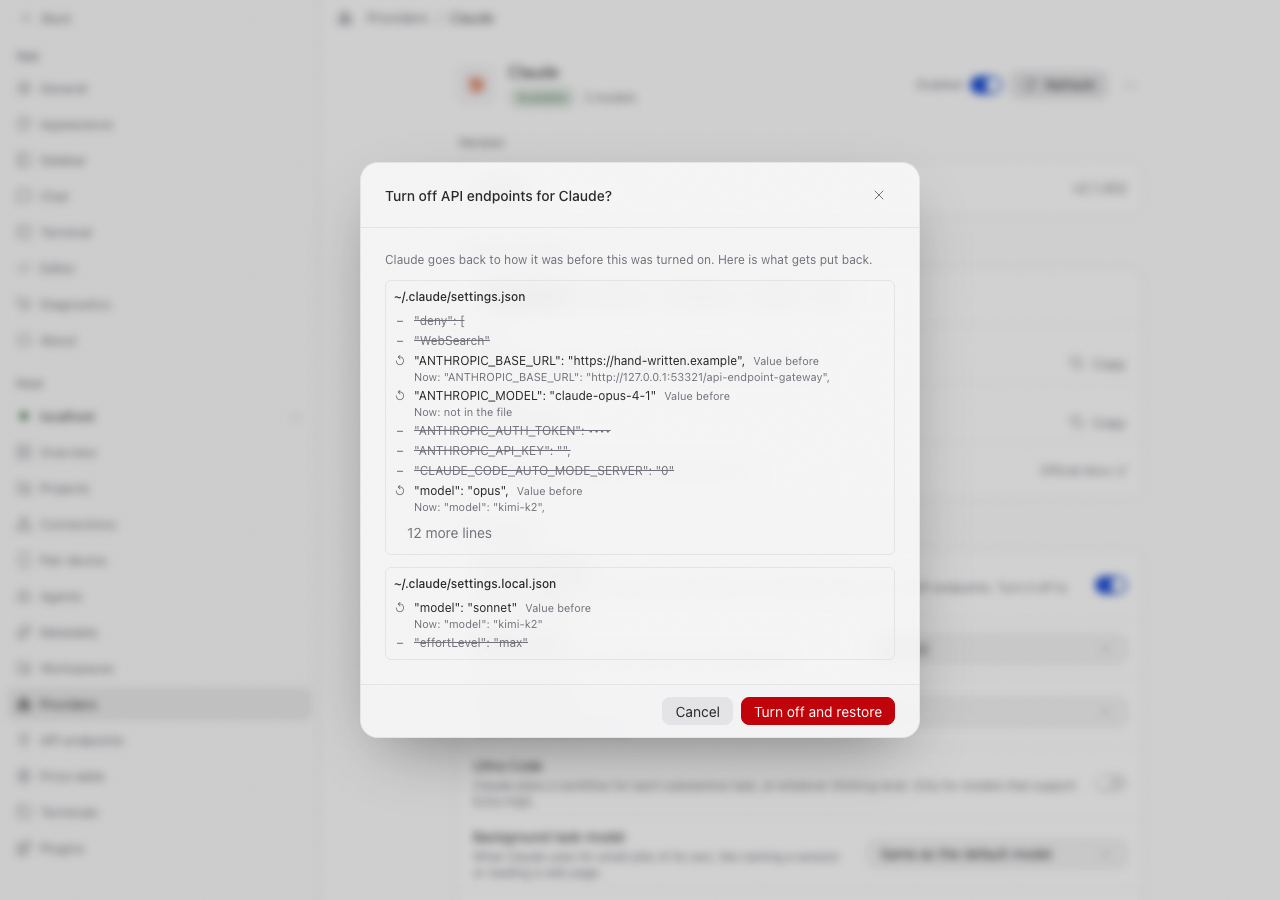
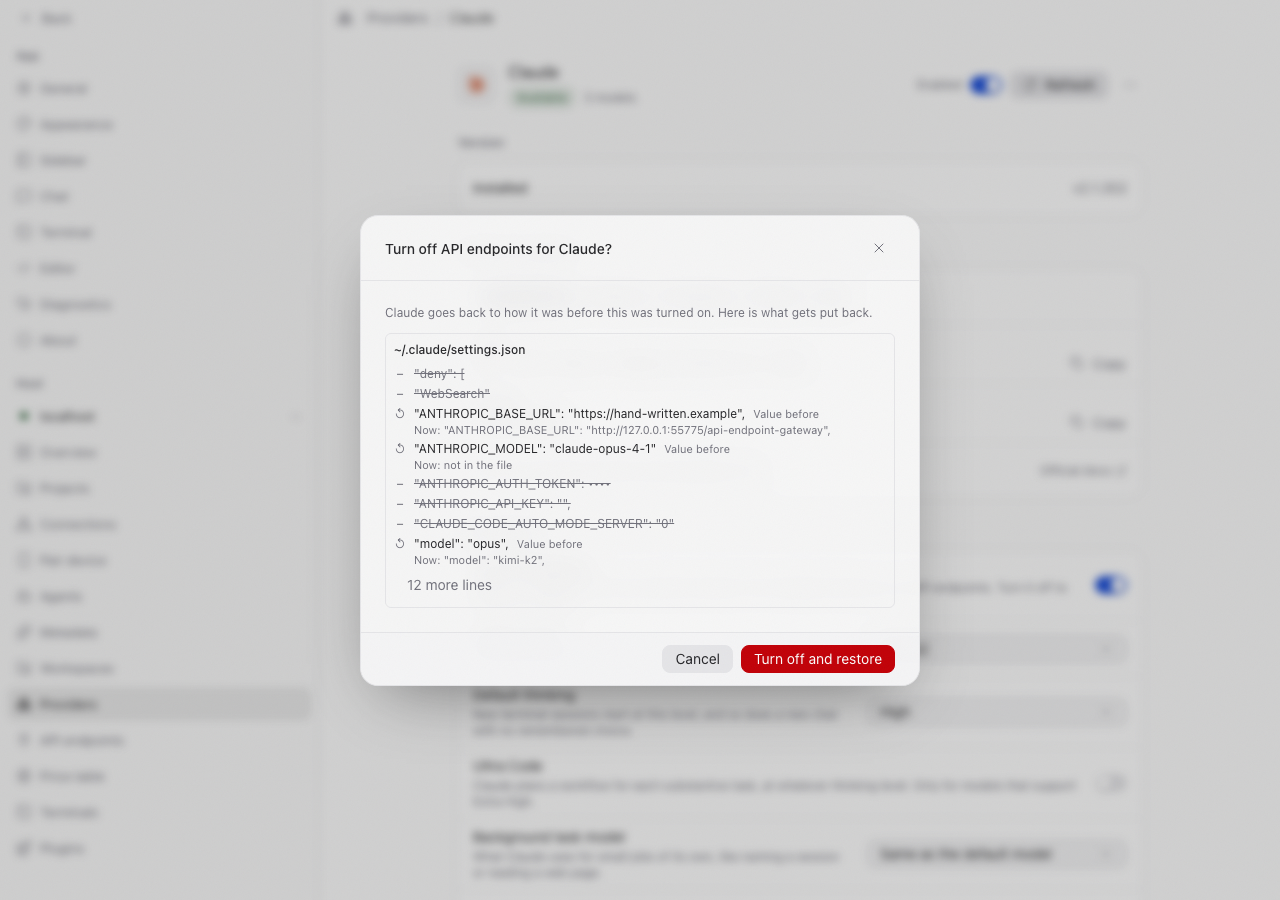
chore(task): 10-16-cli-wiring-web-search 工单 26 长列表截图只留真实的一个文件，记下每个提供方关掉只改一个文件

Changed region(s): [[0.2812, 0.1556, 0.7188, 0.7156], [0.2812, 0.7156, 0.7188, 0.84]]

diff --git a/.atw/tasks/10-16-cli-wiring-web-search/research/implementation-notes.md b/.atw/tasks/10-16-cli-wiring-web-search/research/implementation-notes.md
@@ -792,6 +792,7 @@ Osuna 照 magpie 的 ChatGPT 接法把它换成中转站地址（不换，Codex 
 - Codex 那句说明照 magpie 按 Agent 是不是 Codex 显示，读取中、算不出时也在；线上不另带标志。
 - 主机没声明 `apiEndpointCliWiring` 时不弹框，直接关（浏览器测试覆盖）。
 - 放回的一行（接入前有、现在没有的键）写「现在：文件里没有这一项」。
+- 每个提供方关掉只改一个文件（Claude Code 的 settings.json、Codex 的 config.toml），「按文件分组」实际只有一组。
 - e2e 的 `resetApiEndpoints` 另清后台小任务、Subagent、记忆模型，并在开关都关着时删掉接管记录（含 reconnect），免得上一个用例关掉前的默认模型被下一个用例按 again 挑回来（24 号用例之后 Codex 用例必挂的原因）。
 
 ### 测试
@@ -799,4 +800,4 @@ Osuna 照 magpie 的 ChatGPT 接法把它换成中转站地址（不换，Codex 
 - 纯逻辑 `switch-off-preview.test.ts`（server）：magpie 的大文件、配对、相同内容、括号、大块拿掉；遮密钥；新建、删除、不变、家目录外的路径。
 - daemon 端到端：Claude（改回、放回、拿掉逐行与关掉后的文件一致；Osuna 建的文件列为删除；开关关着时没有；读不懂时回 `config_unparsable`）与 Codex（两行改回、目录行拿掉，关掉后与 `keptConfig` 一致；读不懂）；都比对预览前后内容与 mtime。
 - app：`internal/switch-off-preview.test.ts`（折叠、认不出的种类改文字、算不出）；浏览器测试「Turning Use API endpoints off previews what it puts back」：扣住预览请求看「正在读取」、放开后整份逐行与「现在」行、取消不改文件、确认后关掉并改回；折叠「还有 4 行」展开；读不懂时文字说明加原因，确认被拒在框里、「保留当前设置」关掉且文件不动；Codex 读取中与列表时说明都在、窄窗口确认按钮在视口内；老主机直接关。提示区「切回官方」开同一个框，失败留在框里、重试后关掉。原来三处关开关的步骤补上确认。
-- 截图（无头 Chromium、临时 HOME、假数据；长列表图里第二个文件是截图时注入的假数据，用来看按文件分组）：`screenshots/26-switch-off-sheet_long-list_desktop-1280_{en,zh}.png`、`26-switch-off-sheet_codex_compact-390_{en,zh}.png`、`26-switch-off-sheet_unreadable_desktop-1280_{en,zh}.png`、`26-switch-off-sheet_unreadable-refused_desktop-1280_{en,zh}.png`。
+- 截图（无头 Chromium、临时 HOME、假数据）：`screenshots/26-switch-off-sheet_long-list_desktop-1280_{en,zh}.png`、`26-switch-off-sheet_codex_compact-390_{en,zh}.png`、`26-switch-off-sheet_unreadable_desktop-1280_{en,zh}.png`、`26-switch-off-sheet_unreadable-refused_desktop-1280_{en,zh}.png`。
